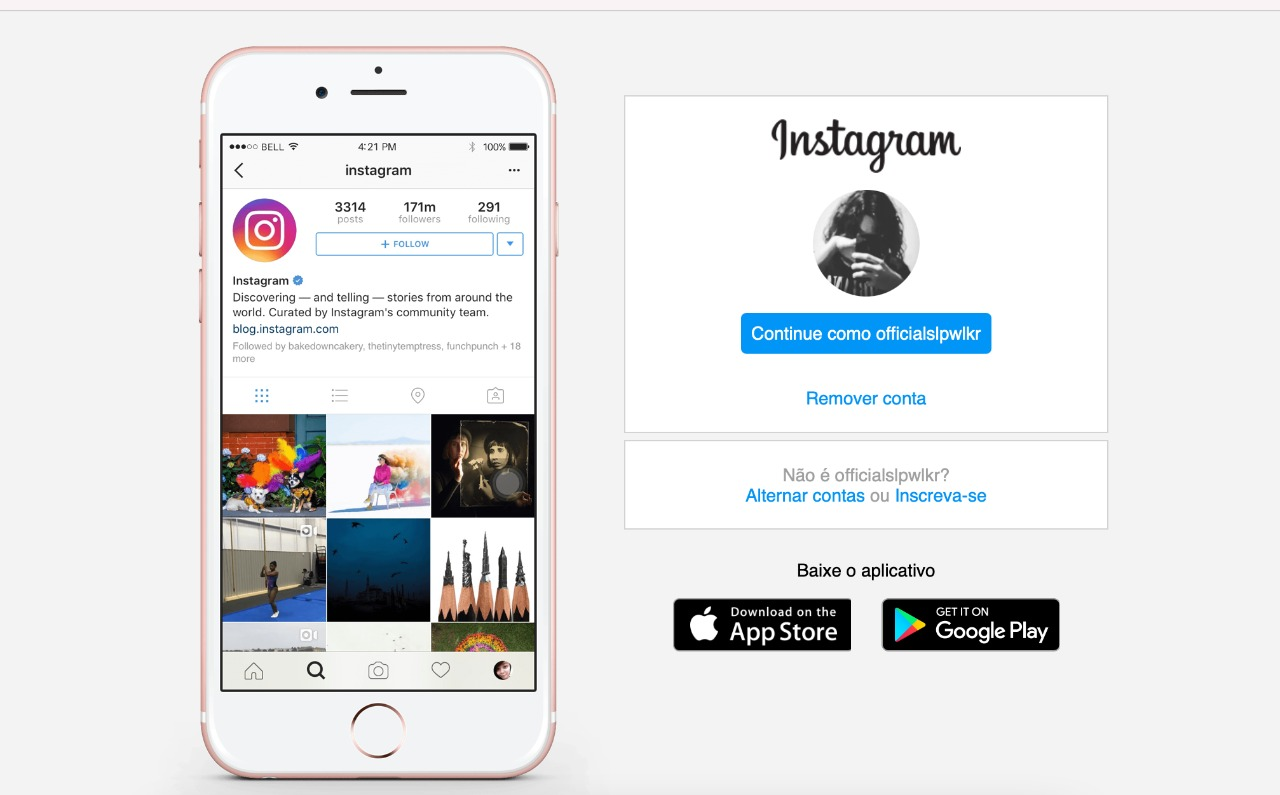
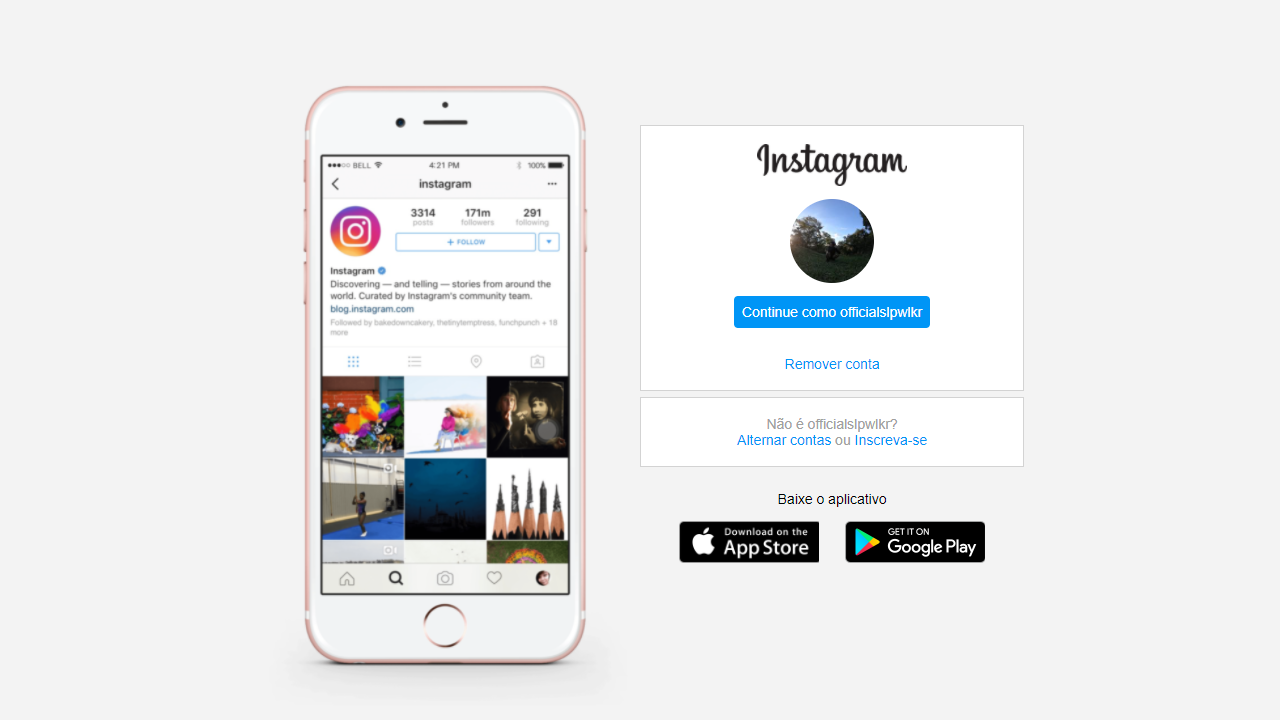
Alterando o README e algumas imagens

diff --git a/README.md b/README.md
@@ -1,7 +1,7 @@
 ## Refazendo a página de login do Instagram!
 
-##### O projeto tem intuito de aumentar meu aprendizado e experiência com desenvolvimento web, html5 e CSS3. :computer:
+##### Este projeto tem intuito de construir meu aprendizado e conseguir experiência na área de desenvolvimento web e aprender alguns conceitos básicos de responsividade, utilizando Html5 e CSS3. 
 
-##### Caso tenha alguma ideia de melhoria para o código, sinta-se livre, para o alterar, e subir o mesmo neste repositório. Obrigado a todos! :smiley: 
+##### Caso tenha alguma ideia de melhoria para o código, ou apenas queira estudá-lo, sinta-se livre para baixar e o alterar,  Obrigado a todos! 
 
-![](img/application.jpeg)
+##### ![](img/application.jpeg)
